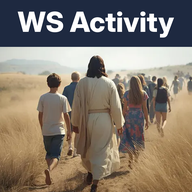
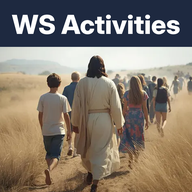
Rename to WS Activities
Claude-Session: https://claude.ai/code/session_01S3eGyU4nbFn6hM2JV8K4N2

Changed region(s): [[0.0625, 0.0312, 0.9375, 0.2188]]

diff --git a/index.html b/index.html
@@ -3,11 +3,11 @@
 <head>
 <meta charset="utf-8">
 <meta name="viewport" content="width=device-width, initial-scale=1, viewport-fit=cover">
-<title>WS Activity</title>
+<title>WS Activities</title>
 <meta name="description" content="Western Springs Stake youth activity ideas">
 <meta name="apple-mobile-web-app-capable" content="yes">
 <meta name="mobile-web-app-capable" content="yes">
-<meta name="apple-mobile-web-app-title" content="WS Activity">
+<meta name="apple-mobile-web-app-title" content="WS Activities">
 <meta name="apple-mobile-web-app-status-bar-style" content="default">
 <meta name="theme-color" content="#f2f2f7">
 <link rel="apple-touch-icon" href="apple-touch-icon.png">
@@ -23,7 +23,7 @@
 <body>
   <!-- The real app lives in Google Apps Script; this page gives it a proper home-screen icon and name. -->
   <div class="frame">
-    <iframe title="WS Activity" src="https://script.google.com/macros/s/AKfycby2BnkxV1-1mul9RatW0z7z_q91pOW3lnFQTxuQllXoODv-xCWKwQHvG1281IP3KDZf/exec" allow="clipboard-write"></iframe>
+    <iframe title="WS Activities" src="https://script.google.com/macros/s/AKfycby2BnkxV1-1mul9RatW0z7z_q91pOW3lnFQTxuQllXoODv-xCWKwQHvG1281IP3KDZf/exec" allow="clipboard-write"></iframe>
   </div>
 </body>
 </html>
